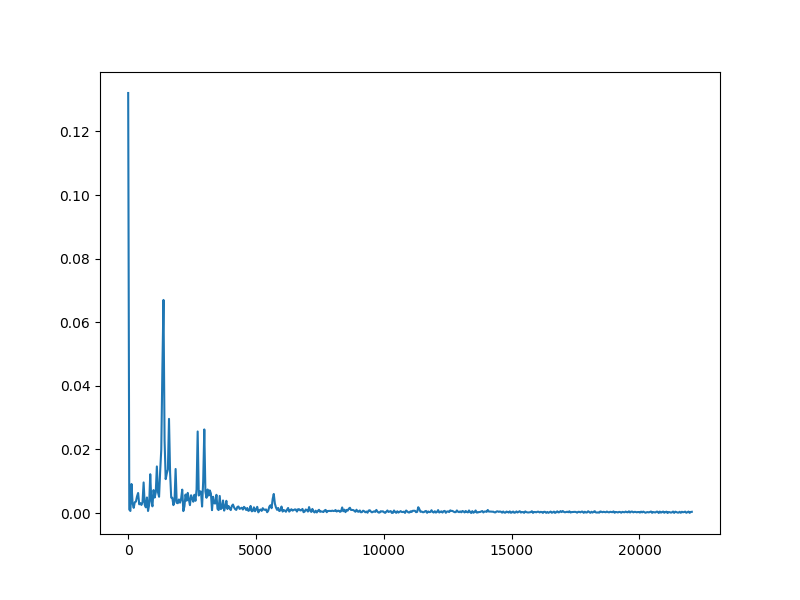
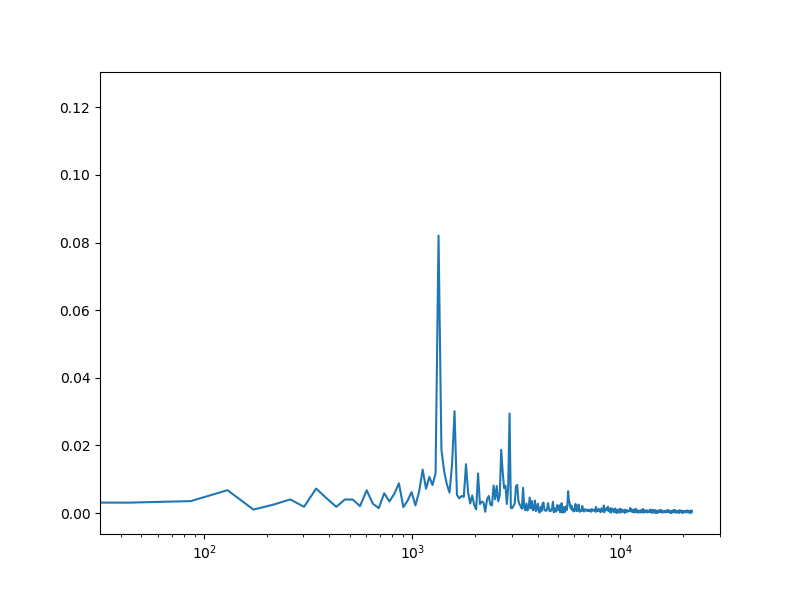
worked on audio

diff --git a/AudioInputTest.py b/AudioInputTest.py
@@ -20,5 +20,5 @@ while(x<1):
 	print(processed)
 xData = np.linspace(0, 1/(2*(1/sampling)), samples/2)
 plt.figure(num=1, figsize=(8,6))
-plt.plot(xData, 2/samples * np.abs(processed[:samples//2]))
+plt.semilogx(xData, 2/samples * np.abs(processed[:samples//2]))
 plt.savefig('spectrogram.png', format='png')
